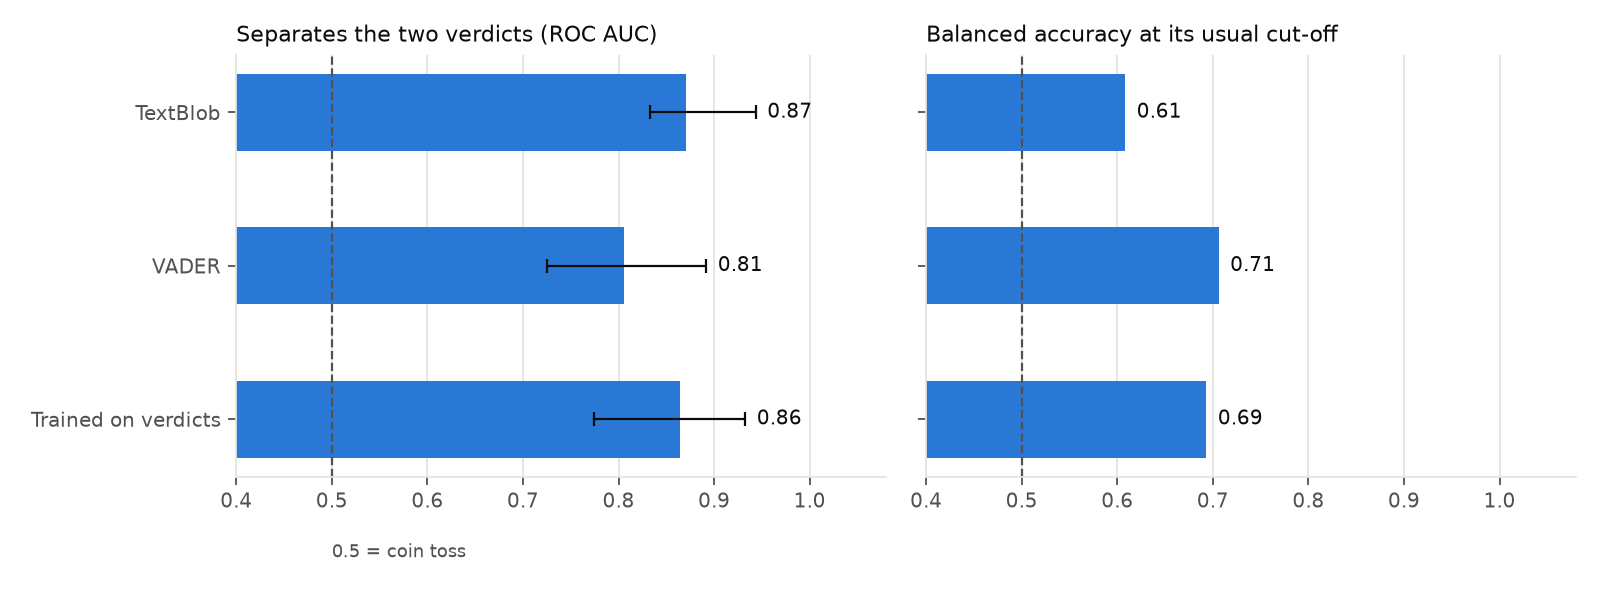
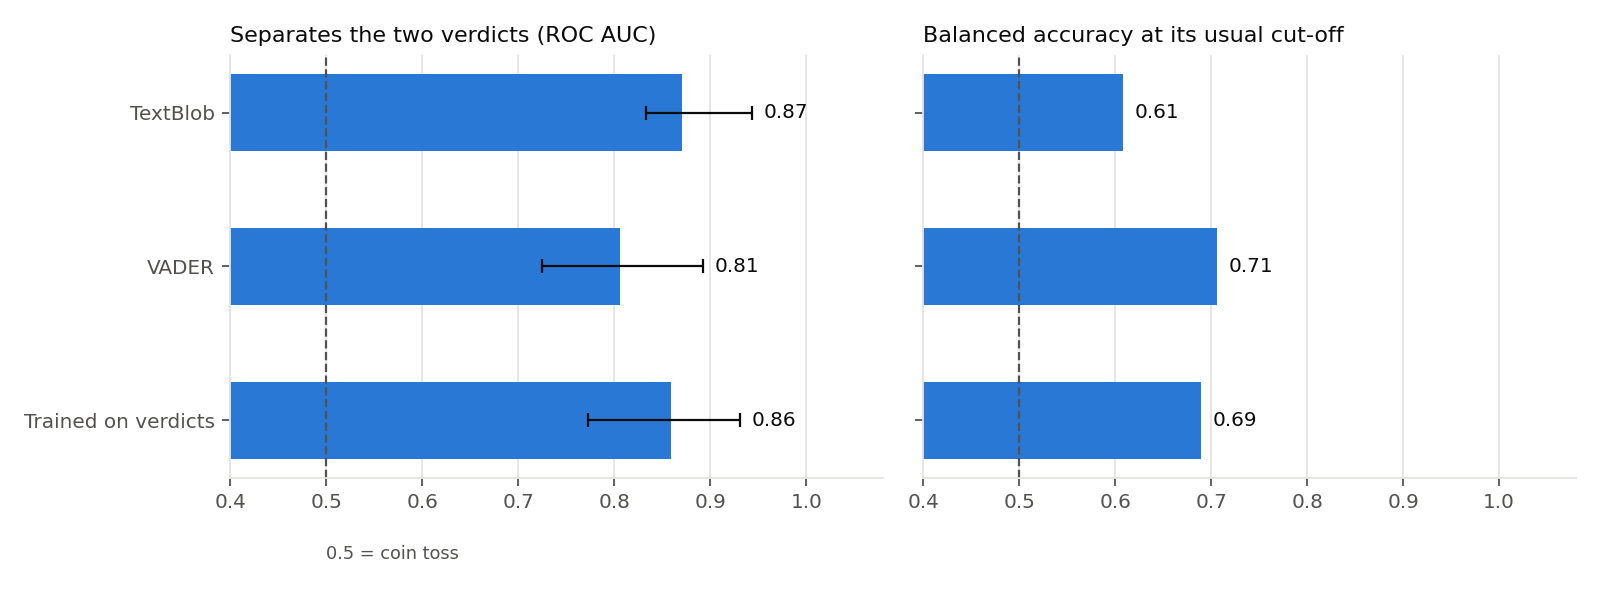
Add results from the Colab run

diff --git a/results/results.md b/results/results.md
@@ -55,7 +55,7 @@ Recommended vs Not Recommended: 228 reviews (175 vs 53). Five-fold cross-validat
 | --- | ---: | ---: | ---: | ---: |
 | TextBlob | 0.87 (0.83–0.94) | 61% | 80% | 25% |
 | VADER | 0.81 (0.72–0.89) | 71% | 69% | 51% |
-| Trained on verdicts | 0.86 (0.77–0.93) | 69% | 82% | 42% |
+| Trained on verdicts | 0.86 (0.77–0.93) | 69% | 76% | 40% |
 
 Best at separating the verdicts: **TextBlob**.
 
@@ -63,13 +63,13 @@ Best at separating the verdicts: **TextBlob**.
 
 ## Three verdicts
 
-Trained on all three tags, the model reaches a macro F1 of 0.46 and balanced accuracy of 47%. Rows are the reviewer's tag, columns the model's guess:
+Trained on all three tags, the model reaches a macro F1 of 0.47 and balanced accuracy of 47%. Rows are the reviewer's tag, columns the model's guess:
 
 | | Recommended | Mixed Feelings | Not Recommended |
 | --- | ---: | ---: | ---: |
-| **Recommended** | 171 | 0 | 4 |
-| **Mixed Feelings** | 27 | 0 | 6 |
-| **Not Recommended** | 30 | 0 | 23 |
+| **Recommended** | 170 | 1 | 4 |
+| **Mixed Feelings** | 26 | 1 | 6 |
+| **Not Recommended** | 32 | 0 | 21 |
 
 ## By show
 
